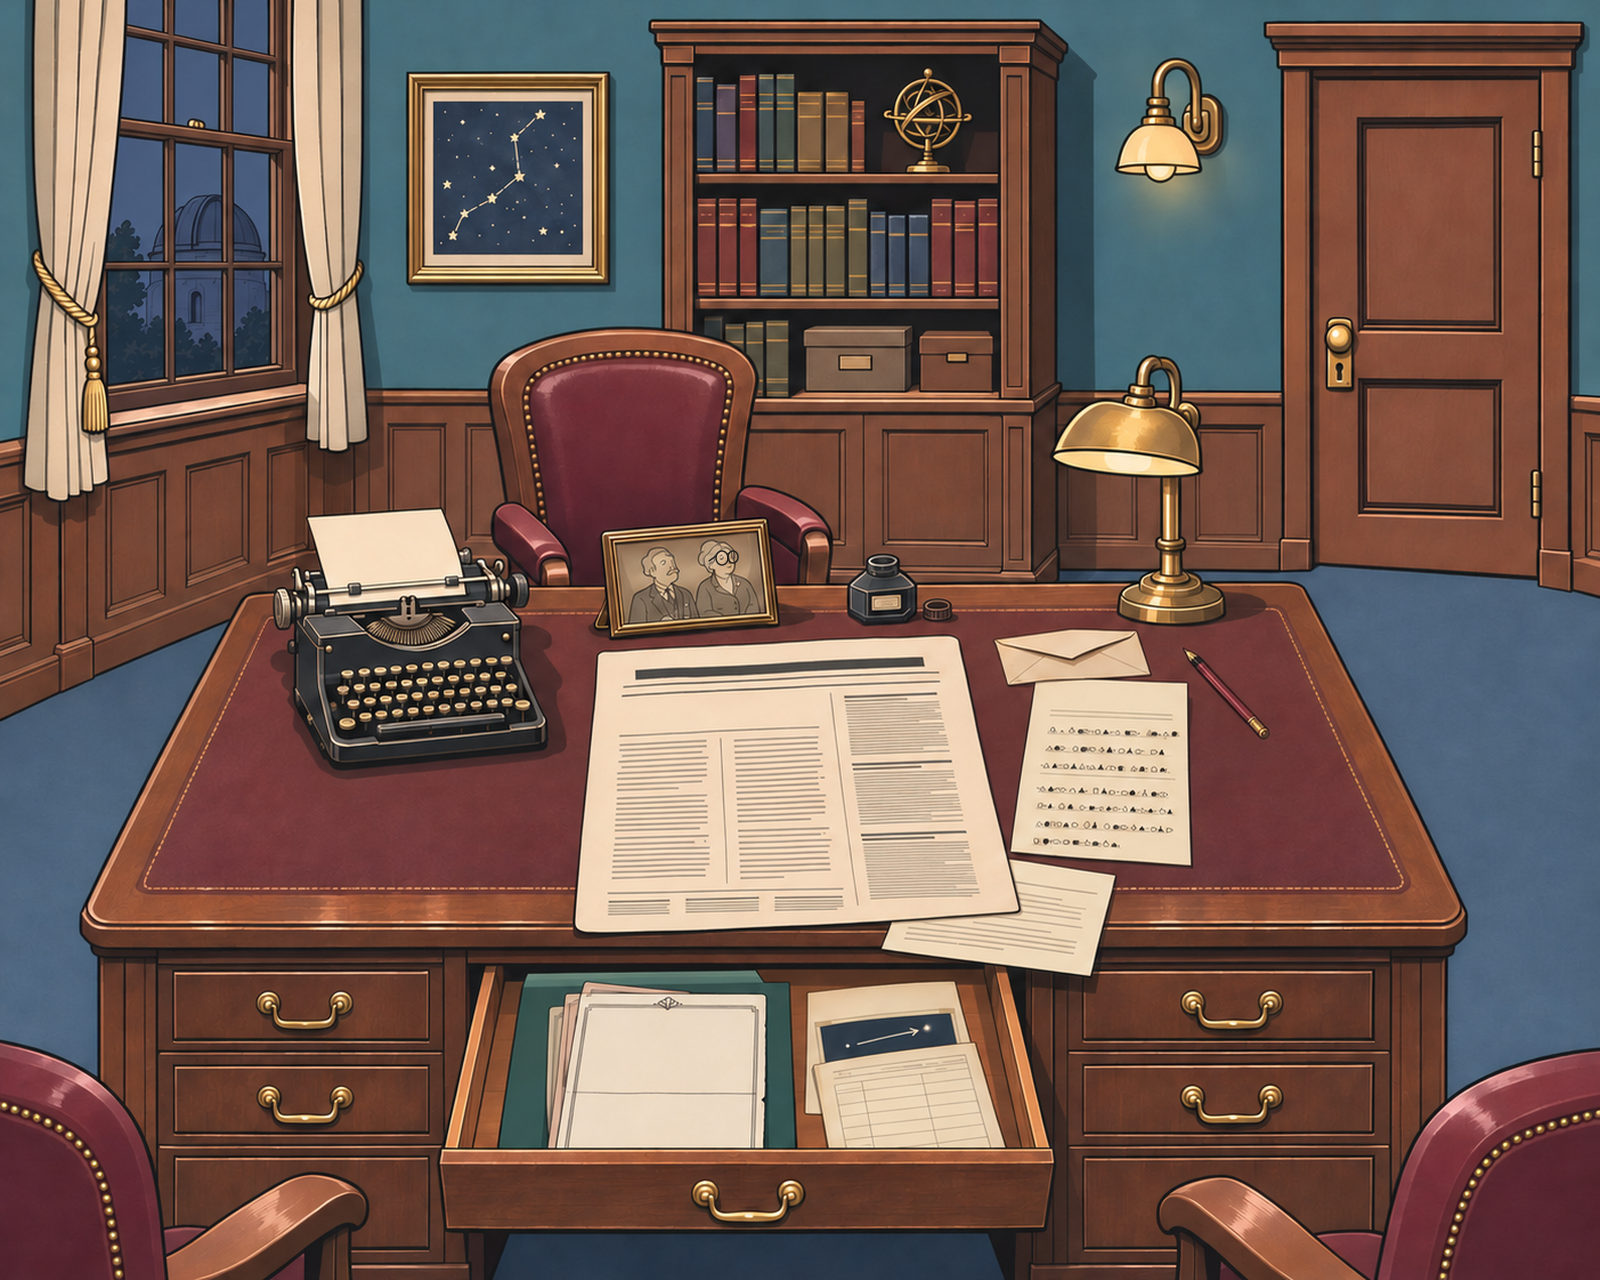
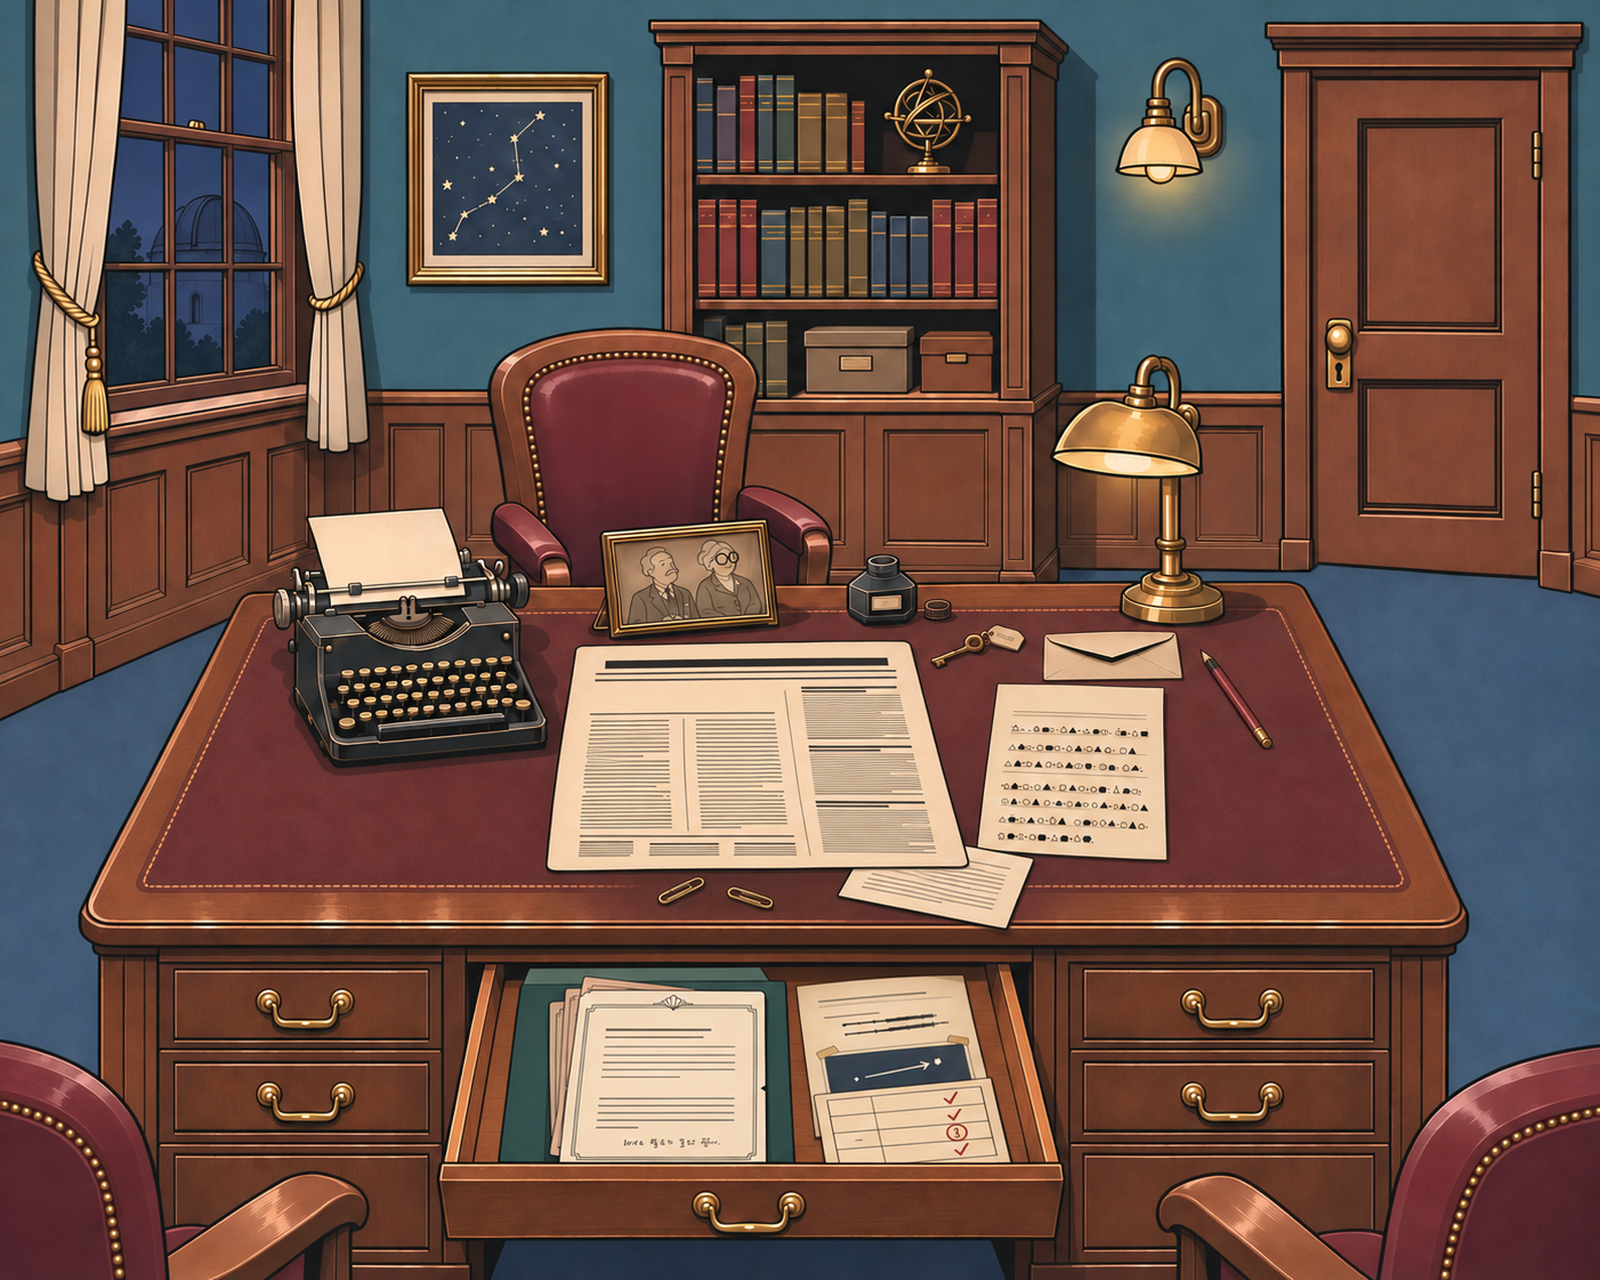
Update director office overview with current clue props

diff --git a/traces-of-guilt/index.html b/traces-of-guilt/index.html
@@ -9,7 +9,7 @@
   <title>Traces of Guilt</title>
   <link rel="canonical" href="https://iontail.github.io/traces-of-guilt/">
   <link rel="stylesheet" href="style.css?v=page-headings">
-  <script src="game.js?v=character-faces" type="module"></script>
+  <script src="game.js?v=office-overview" type="module"></script>
 </head>
 <body>
   <svg class="icon-definitions" aria-hidden="true" xmlns="http://www.w3.org/2000/svg">

diff --git a/traces-of-guilt/case-data.js b/traces-of-guilt/case-data.js
@@ -50,7 +50,7 @@ export const caseFile = {
       title: "연구소장 집무실",
       action: "소장실 둘러보기",
       mapLabel: "소장실",
-      image: "planetarium/office.png?v=character-faces",
+      image: "planetarium/office.png?v=office-overview",
       position: [72, 18.5],
       align: "end",
       kind: "장소"

diff --git a/traces-of-guilt/game.js b/traces-of-guilt/game.js
@@ -1,4 +1,4 @@
-import { caseFile } from "./case-data.js?v=character-faces";
+import { caseFile } from "./case-data.js?v=office-overview";
 
 const entrance = document.querySelector(".entrance");
 const enterButton = entrance.querySelector(".enter-room");
